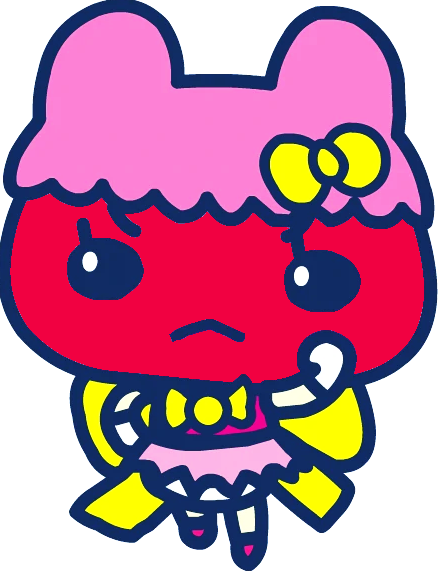
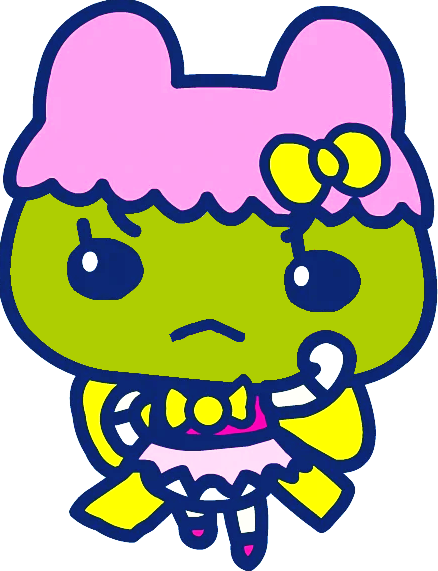
updated kichis figures

diff --git a/src/components/Dashboard.jsx b/src/components/Dashboard.jsx
@@ -52,7 +52,9 @@ const Dashboard = () => {
   let task = localEntry[index].task;
   let userName = localEntry[index].userName;
   let currentUserHP = localEntry[index].hp;
-  console.log(task, userName, currentUserHP);
+  //console.log(task, userName, currentUserHP);
+  const [hpValue, SetHpValue] = useState(currentUserHP);
+  console.log(currentUserHP);
 
   //! clicking on the figure will iterating the text array
   const handleFigureClick = () => {
@@ -65,8 +67,35 @@ const Dashboard = () => {
   };
 
   const handleComplete = () => {
-    currentUserHP = 1;
     alert("you complete your Tasuku! I'm so proud of you" + userName);
+    currentUserHP++;
+    //alert(currentUserHP);
+    //SetHpValue(currentUserHP + 1);
+    //currentUserHP++;
+    if (currentUserHP >= 5) {
+      alert('start🌟');
+    } else if (currentUserHP === 4) {
+      alert('Arigatō, but keep it up');
+    } else if (currentUserHP === 3) {
+      alert("I feel better, I'm still mad 🧐");
+    } else if (currentUserHP === 2) {
+      alert("you saved me, but I'm still sick. Keep going ");
+    } else if (currentUserHP === 1) {
+      alert("I'm dying, MAYDAY!");
+    } else alert('GAME OVER');
+
+    localEntry[index] = {
+      ...localEntry[index],
+      hp: currentUserHP,
+    };
+    localStorage.setItem('users', JSON.stringify(localEntry));
+    SetHpValue(currentUserHP);
+  };
+
+  const handleFailed = () => {
+    alert(userName + "This time you didn't completed the Tasuku:/");
+    // SetHpValue(currentUserHP - 1);
+    currentUserHP--;
     if (currentUserHP >= 5) {
       alert('start🌟');
     } else if (currentUserHP === 4) {
@@ -78,16 +107,13 @@ const Dashboard = () => {
     } else if (currentUserHP === 1) {
       alert("i'm dying, MAYDAY!");
     } else alert('GAME OVER');
-  };
 
-  localEntry[index] = {
-    ...localEntry[index],
-    hp: currentUserHP,
-  };
-  localStorage.setItem('users', JSON.stringify(localEntry));
-
-  const handleFailed = () => {
-    alert(userName + "This time you didn't completed the Tasuku:/");
+    localEntry[index] = {
+      ...localEntry[index],
+      hp: Number(currentUserHP),
+    };
+    localStorage.setItem('users', JSON.stringify(localEntry));
+    SetHpValue(currentUserHP);
   };
 
   const handleLogOut = () => {
@@ -119,7 +145,12 @@ const Dashboard = () => {
 
       <div className="figure-btns-wrapper">
         <MinusButton action={handleFailed} />
-        <Kichi action={handleFigureClick} />
+
+        <Kichi
+          hpValue={hpValue}
+          // SetHpValue={SetHpValue}
+          action={handleFigureClick}
+        />
         <PlusButton action={handleComplete} />
         <TurnonBtn action={handleLogOut} />
       </div>

diff --git a/src/components/assets/Kichi.jsx b/src/components/assets/Kichi.jsx
@@ -1,15 +1,30 @@
 import kichi from '../../images/kichi_figure.png';
-import kichi3ph from '../../images/kichi2hp.png';
-import kichi1ph from '../../images/kichi1hp.png';
+import kichi3hp from '../../images/kichi3hp.png';
+import kichi2hp from '../../images/kichi2hp.png';
+import kichi1hp from '../../images/kichi1hp.png';
 import './Kichi.css';
+//import { useState } from 'react';
 
-const Kichi = (props) => (
-  // wrap it in a div so I can add the onClick attribute
-  <div className="figure_container" onClick={props.action}>
-    {/* <img id="hover-me" src={kichi} alt="Kichi" className="figure" /> */}
-    {/* <img id="hover-me" src={kichi3ph} alt="Kichi" className="figure" /> */}
-    <img id="hover-me" src={kichi1ph} alt="Kichi" className="figure" />
-  </div>
-);
+const Kichi = (props) => {
+  return (
+    // wrap it in a div so I can add the onClick attribute
+    <div className="figure_container" onClick={props.action}>
+      {props.hpValue >= 4 && (
+        <img id="hover-me" src={kichi} alt="Kichi" className="figure" />
+      )}
+      {props.hpValue === 3 && (
+        <img id="hover-me" src={kichi3hp} alt="Kichi" className="figure" />
+      )}
+
+      {props.hpValue === 2 && (
+        <img id="hover-me" src={kichi2hp} alt="Kichi" className="figure" />
+      )}
+
+      {props.hpValue <= 1 && (
+        <img id="hover-me" src={kichi1hp} alt="Kichi" className="figure" />
+      )}
+    </div>
+  );
+};
 
 export default Kichi;

diff --git a/src/components/Home.jsx b/src/components/Home.jsx
@@ -43,7 +43,7 @@ const Home = () => {
 
       // Set the time after the login
       const today = new Date();
-      const taskDateStamp =
+      const currentTime =
         today.getFullYear() +
         '-' +
         (today.getMonth() + 1) +
@@ -52,7 +52,7 @@ const Home = () => {
 
       let localEntry = JSON.parse(localStorage.getItem('users'));
       let currentUserEntry = localStorage.getItem('currentUser');
-      currentUserHP = 4;
+      //currentUserHP = 4;
 
       //getting just number
       let index = localEntry.findIndex(
@@ -61,8 +61,8 @@ const Home = () => {
 
       localEntry[index] = {
         ...localEntry[index],
-        time: taskDateStamp,
-        hp: currentUserHP,
+        time: currentTime,
+        //hp: currentUserHP,
       };
 
       localStorage.setItem('users', JSON.stringify(localEntry));

diff --git a/Todos.md b/Todos.md
@@ -58,14 +58,17 @@ return newObj;
 
 todo 4.5.22:
 
-1. set the points, test the point system
+1. set the points, test the point system v
 2. API for quotes
 3. logic with the daily tasuku
 4. if you didn't log your success, get -1ph
-5. change the appearance of Kichi according to the points
+5. change the appearance of Kichi according to the points v
 
 4hp warning
 3hp mad
 2hp sick
 1hp dying
 0ph die XOXO
+
+deployment
+README file with lots of credits
